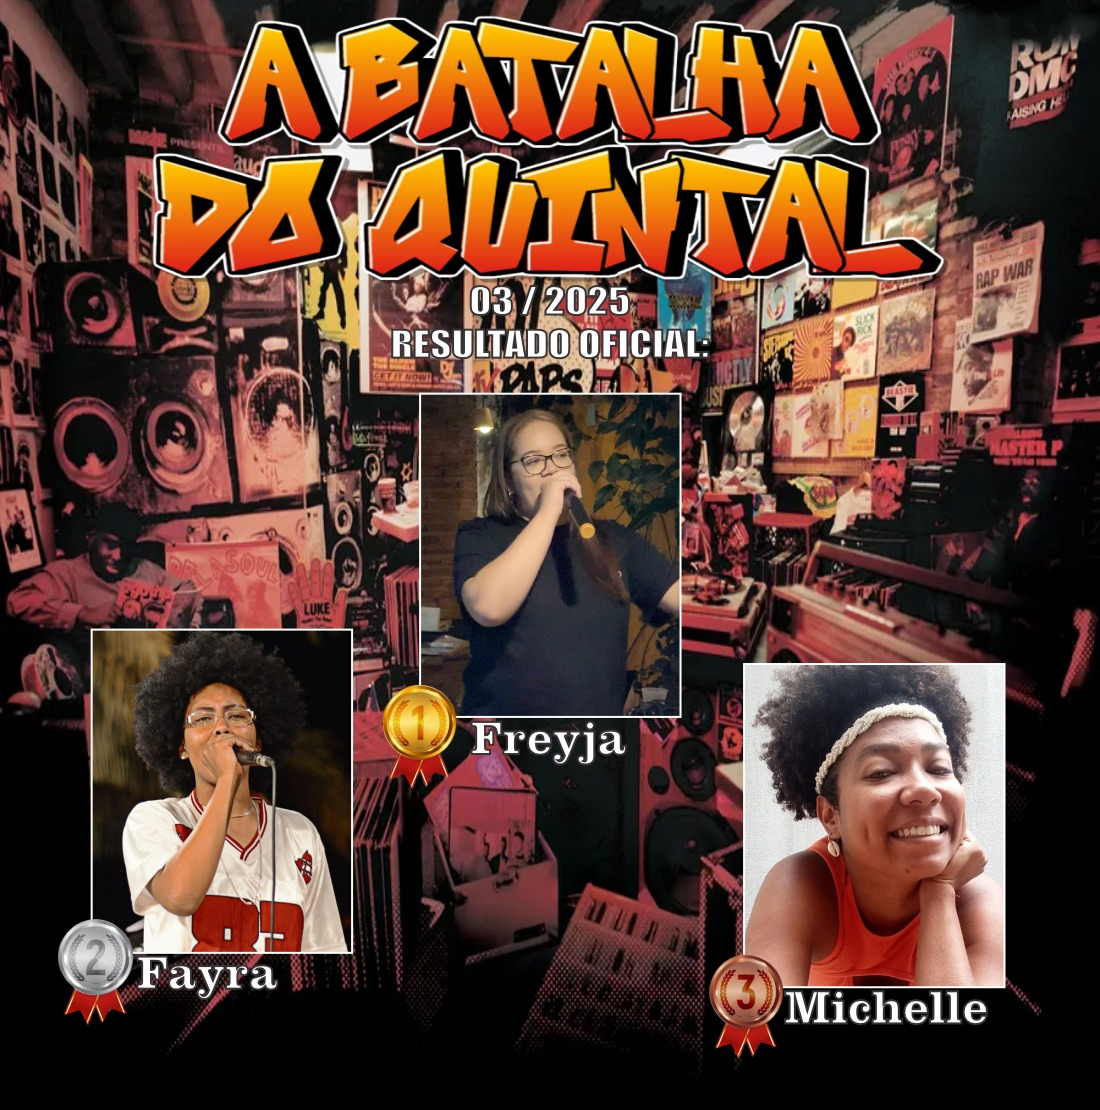
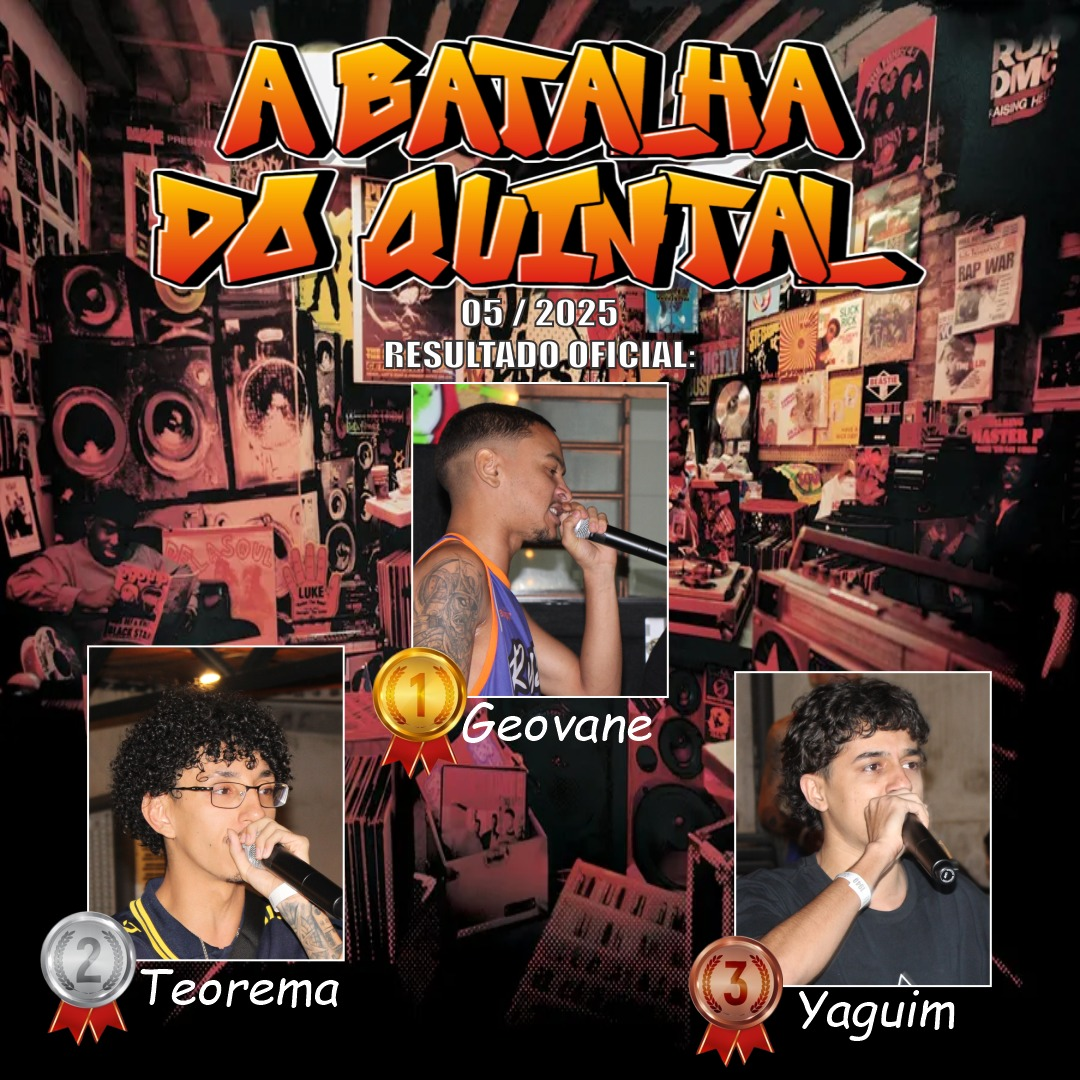
EP - 5

diff --git a/index.html b/index.html
@@ -92,7 +92,7 @@
       
       <br>   
       <h5>
-      - Temporada 1 - Episódio 5 - 
+      - Em breve - Episódio 6 - 
       </h5><br> <br>
       <div class="mb-3" align="center">
 
@@ -111,7 +111,7 @@
        <div class="card border-success mb-3">
       
         <div class="card-body text-success">
-          <img src="img/evento.jpg" class="evento img-fluid" alt="logo" height="150" width="550">
+          <img src="img/result.jpg" class="evento img-fluid" alt="logo" height="150" width="550">
         </div>
       </div> 
       
@@ -137,7 +137,7 @@
     
     
     <section id="inscricao" align="center">
-      <h1 class="form"><b>INSCRIÇÕES ABERTAS</b></h1>
+      <h1 class="form"><b>EM BREVE, AS INSCRIÇÕES SERÃO ABERTAS</b></h1>
       <br><br>
       <br>
       
@@ -147,12 +147,12 @@
       
       </div>
       <br><br>
-        <div class="inscricao" align="center">
+         <!--<div class="inscricao" align="center">
           <br><br>  
           
             
           <br>
-          <form id="contact-form" enctype="multipart/form-data" method="post">
+         <form id="contact-form" enctype="multipart/form-data" method="post">
             <div class="mb-3 p-3" align="center">
               <div class="col-md-4">
                 <label for="name" class="form-label"><h5><b>Nome de registro:<br>(Levar documento para comprovação)</b></h5></label>
@@ -189,7 +189,7 @@
                 <input class="form-control" id="data" name="user_data" type="date" />
               </div>
             </div>
-            <br>
+            <br>-->
             <!--
             <div class="mb-3 p-3" align="center">
               <div class="col-md-4" align="center">  
@@ -197,7 +197,7 @@
               </div>
             </div>-->
            <br>
-            <div class="mb-3" align="center">
+           <!-- <div class="mb-3" align="center">
               <button type="submit" class="btn"><b>Enviar</b></button>
             </div>
           </form>
@@ -205,7 +205,7 @@
           <br><br>
         </div>
         </section>
-         
+         -->
           
     <br><br>
   <section id="contatos" align="center">

diff --git a/agenda.html b/agenda.html
@@ -116,6 +116,13 @@
             <div class="row row-cols-1 row-cols-sm-2 row-cols-md-2">
               <div class="col">
                 <div class="text-center">
+                    <img src="img/1-5.png" class="logo img-fluid"  alt="logo" height="200" width="200">
+                  </div>
+                  <p>
+                    <h5>5º Episódio</h5>
+                     <h3>✔<s>20 de Maio</s></h3><br><br>
+              </div>
+                <!--<div class="text-center">
                     <img src="img/prox.png" class="logo img-fluid"  alt="logo" height="200" width="200">
                   </div>
                   <p>
@@ -128,10 +135,10 @@
                     </div>
                     <h3>18 de Maio</h3><br>
                   </p>
-                </div>
+                </div>-->
               <div class="col">
                 <div class="text-center">
-                    <img src="img/breve.png" class="logo img-fluid"  alt="logo" height="200" width="200">
+                    <img src="img/embreve.png" class="logo img-fluid"  alt="logo" height="200" width="200">
                   </div>
                   <p>
                     <h3>22
